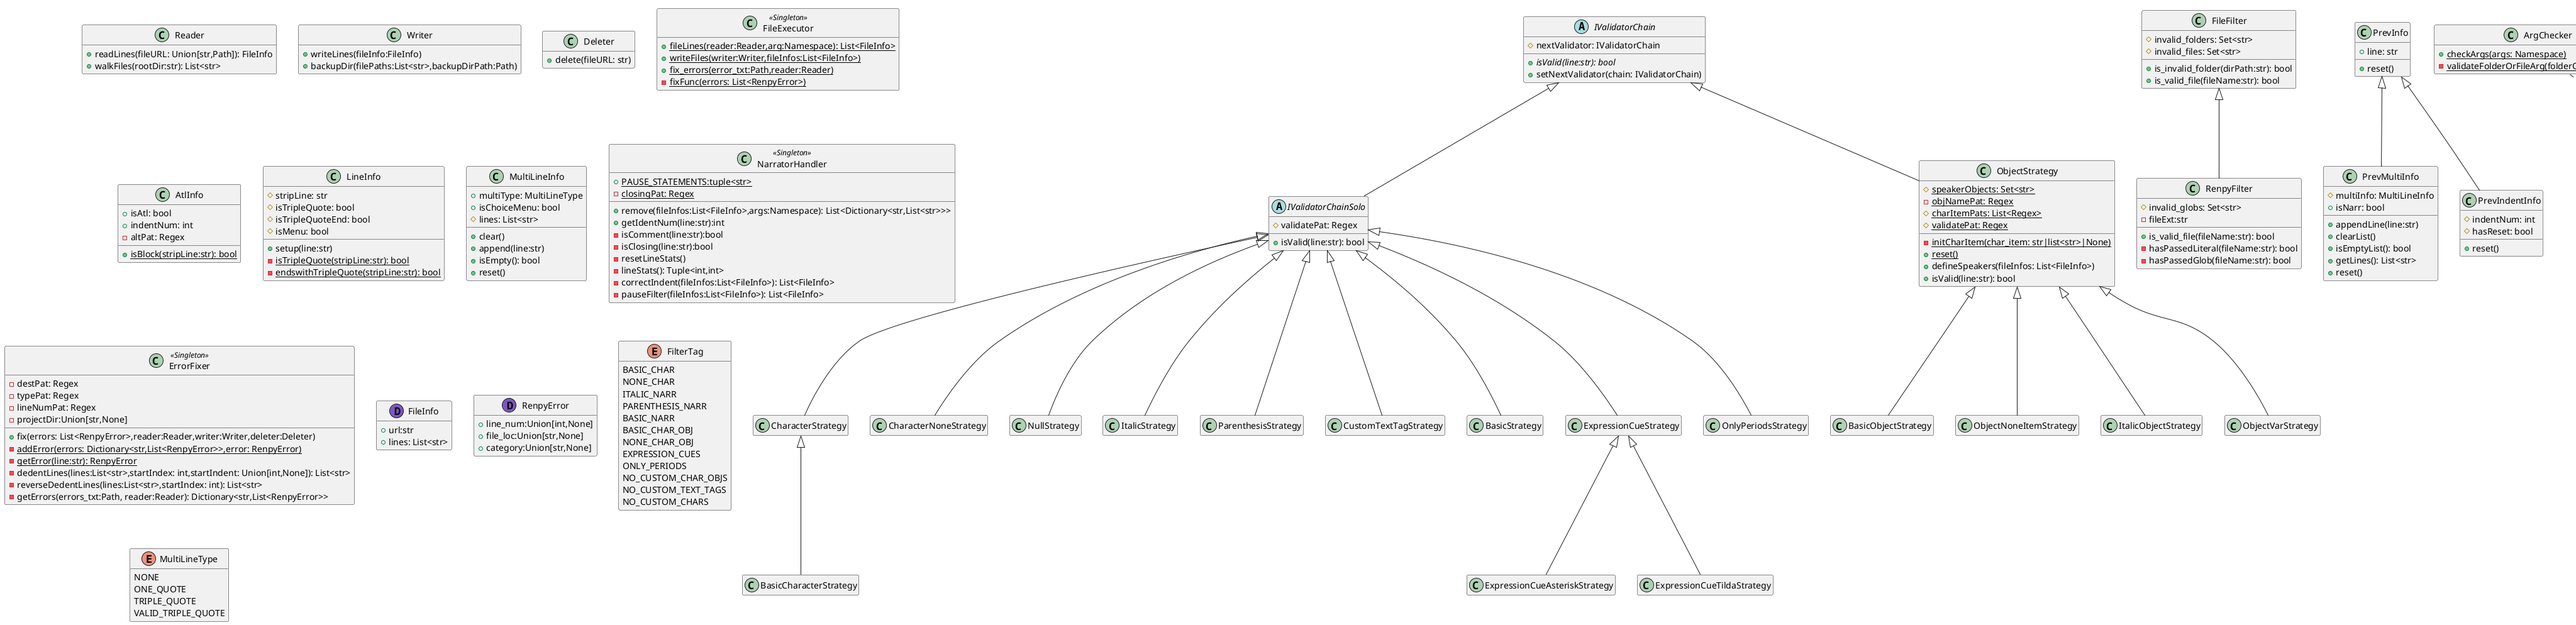
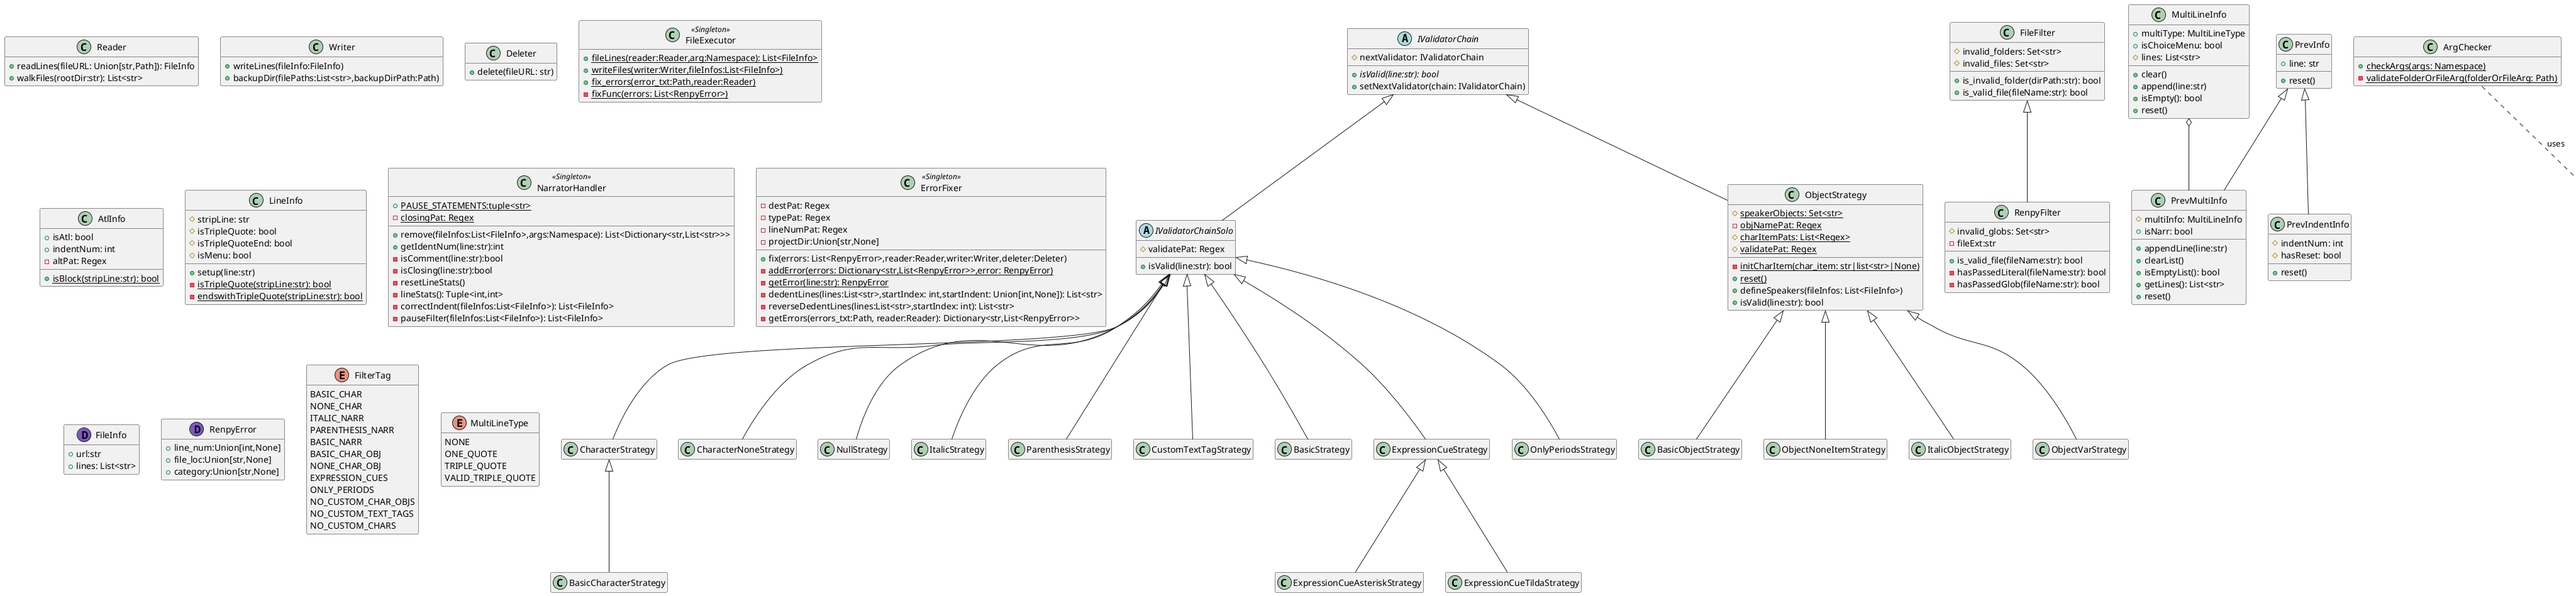
type annotations

diff --git a/src/lib/handler/atl_info.py b/src/lib/handler/atl_info.py
@@ -1,6 +1,8 @@
 import re
+from typing import final
 
 
+@final
 class AtlInfo:
     """Holds line information involving Animation and Transformation language (atl).
 

diff --git a/src/lib/handler/line_info.py b/src/lib/handler/line_info.py
@@ -1,3 +1,7 @@
+from typing import final
+
+
+@final
 class LineInfo:
     """Holds line information from a file."""
 
